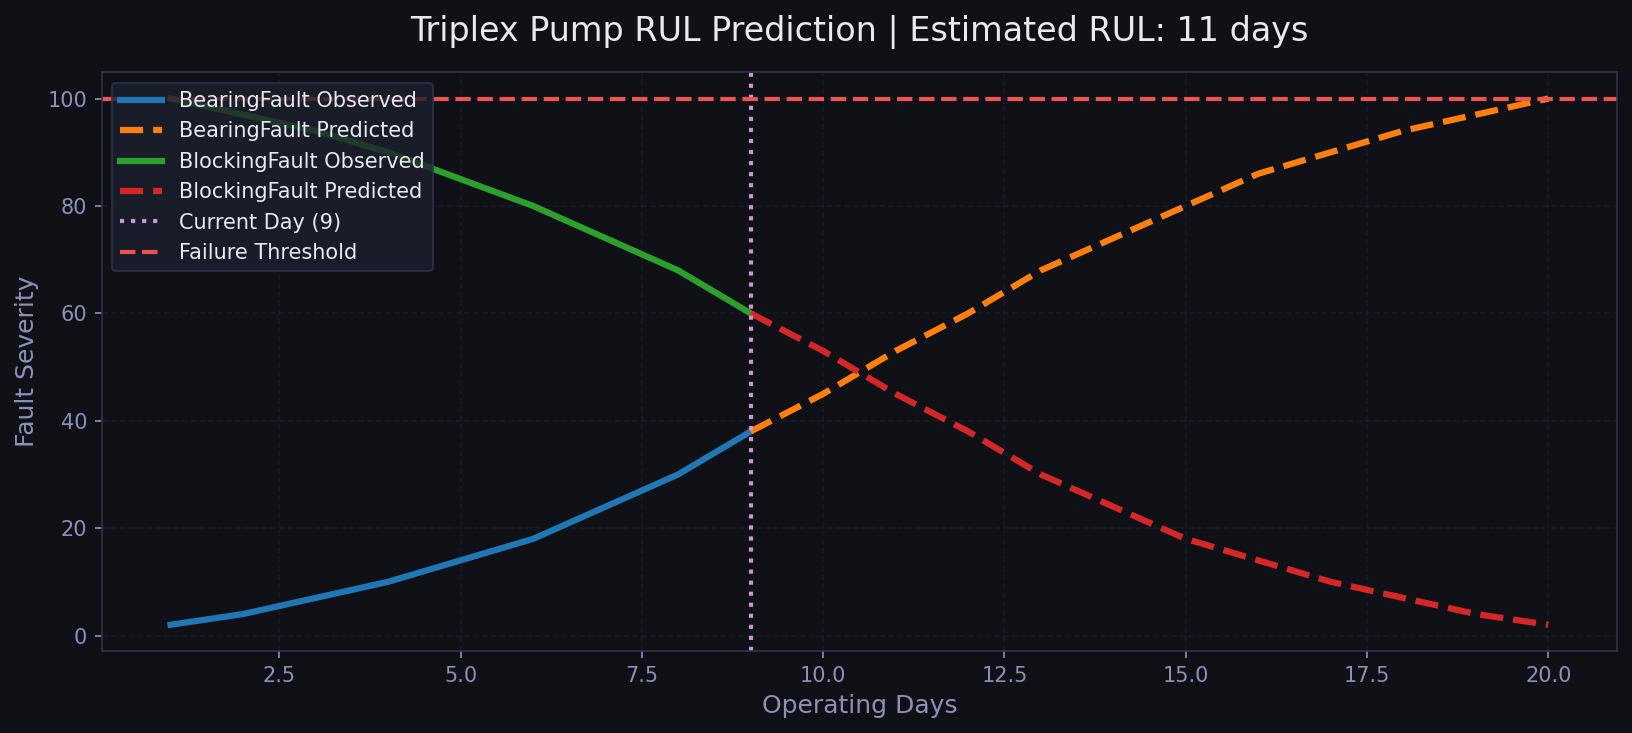
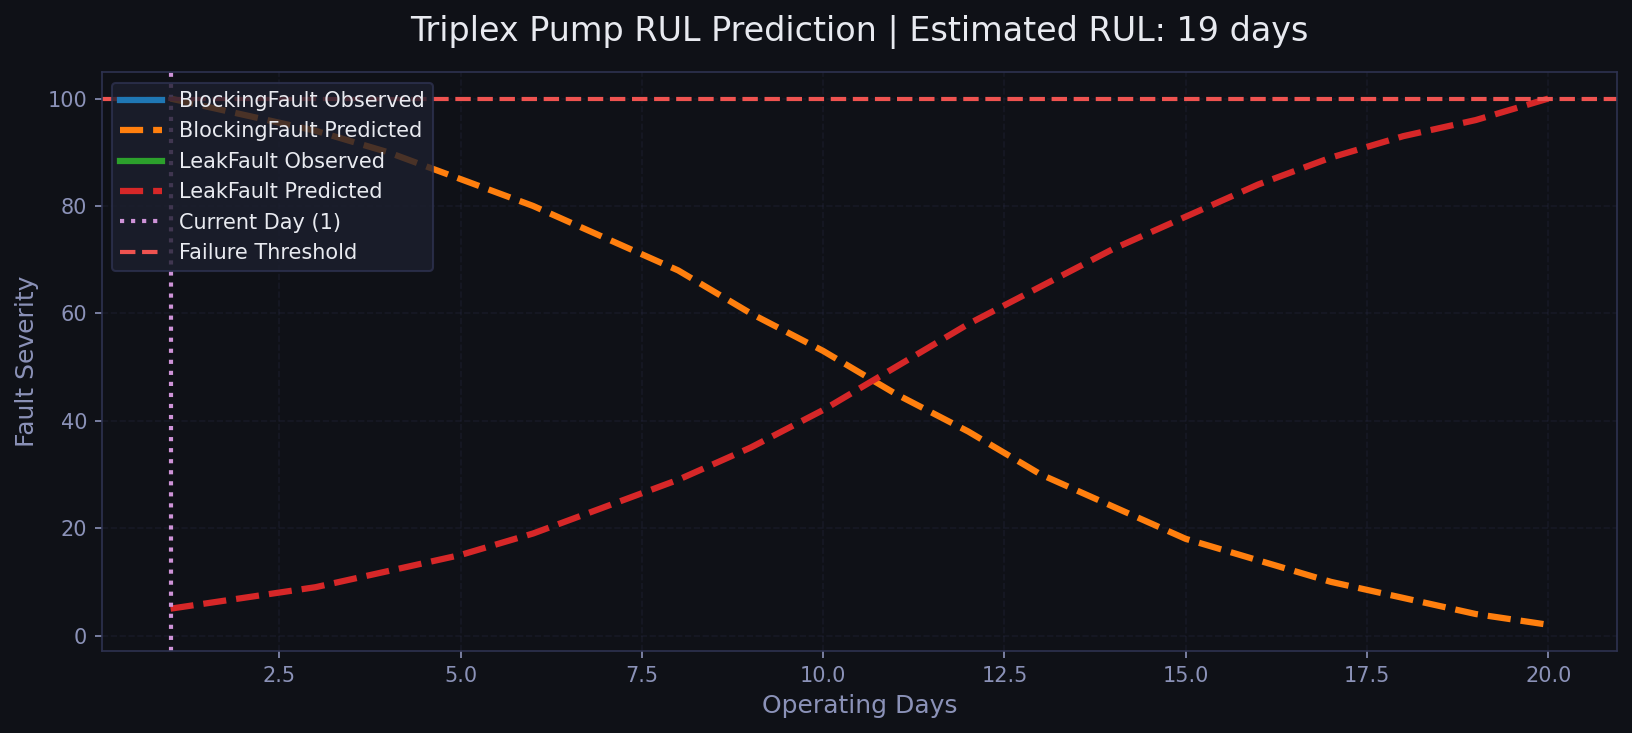
changes made

diff --git a/new/backend/app.py b/new/backend/app.py
@@ -2,7 +2,7 @@ from flask import Flask, jsonify, request
 from flask_cors import CORS
 import pandas as pd
 import subprocess
-from XAI_in_predictive_maintenance.new.backend.ml_pipeline import *
+from ml_pipeline import *
 import pandas as pd
 from flask import send_file
 import matplotlib
@@ -41,16 +41,15 @@ def simulate():
         [
             "matlab",
             "-batch",
-            "run('C:/project/backend/matlab/simulate.m')"
+            "run('C:/project/XAI_in_predictive_maintenance/new/backend/matlab/simulate.m')"
         ]
     )
 
     print("MATLAB Finished")
 
     df = pd.read_csv(
-        "C:/project/backend/matlab/simulation_output.csv"
-    )
-
+    "C:/project/XAI_in_predictive_maintenance/new/backend/matlab/simulation_output.csv"
+)
     # DAYS
     days = list(range(1, 21))
 
@@ -192,7 +191,7 @@ def simulate():
     plt.tight_layout()
 
     plt.savefig(
-        "C:/project/backend/matlab/graph.png",
+    "C:/project/XAI_in_predictive_maintenance/new/backend/matlab/graph.png",
         dpi=150,
         bbox_inches='tight',
         facecolor=fig.get_facecolor()
@@ -212,7 +211,7 @@ def simulate():
 def graph():
 
     return send_file(
-        "C:/project/backend/matlab/graph.png",
+    "C:/project/XAI_in_predictive_maintenance/new/backend/matlab/graph.png",
         mimetype='image/png'
     )
 